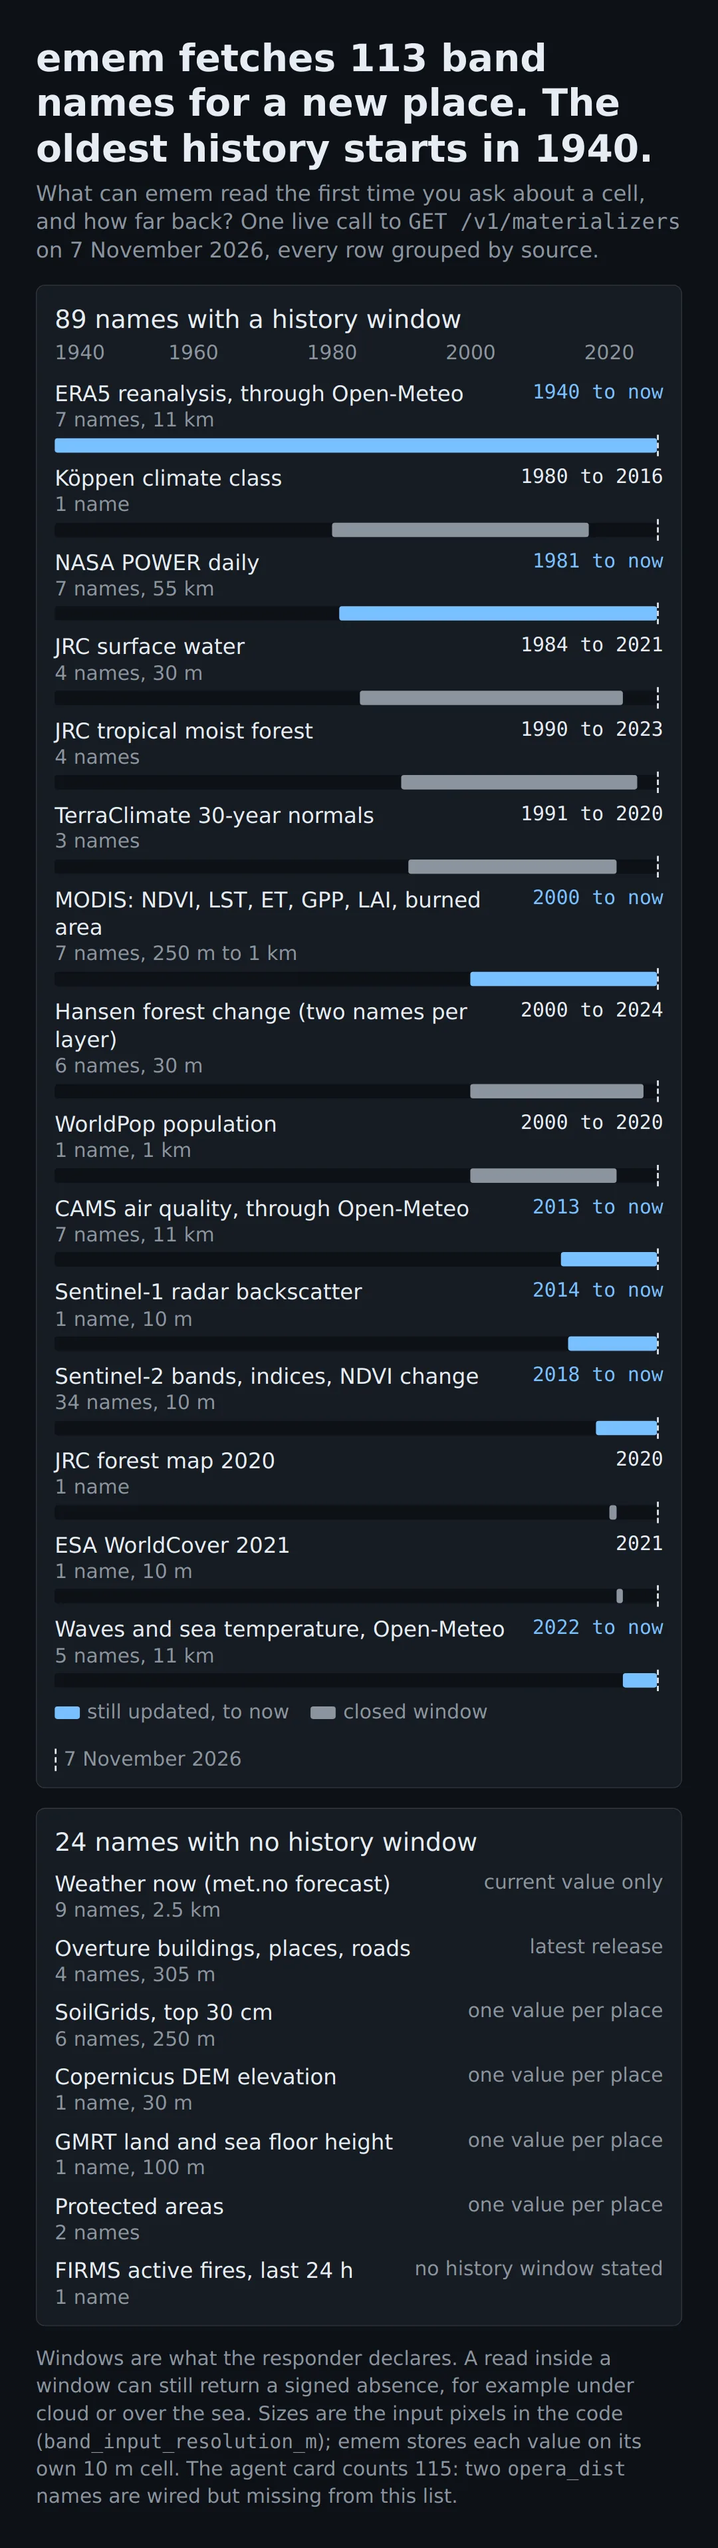
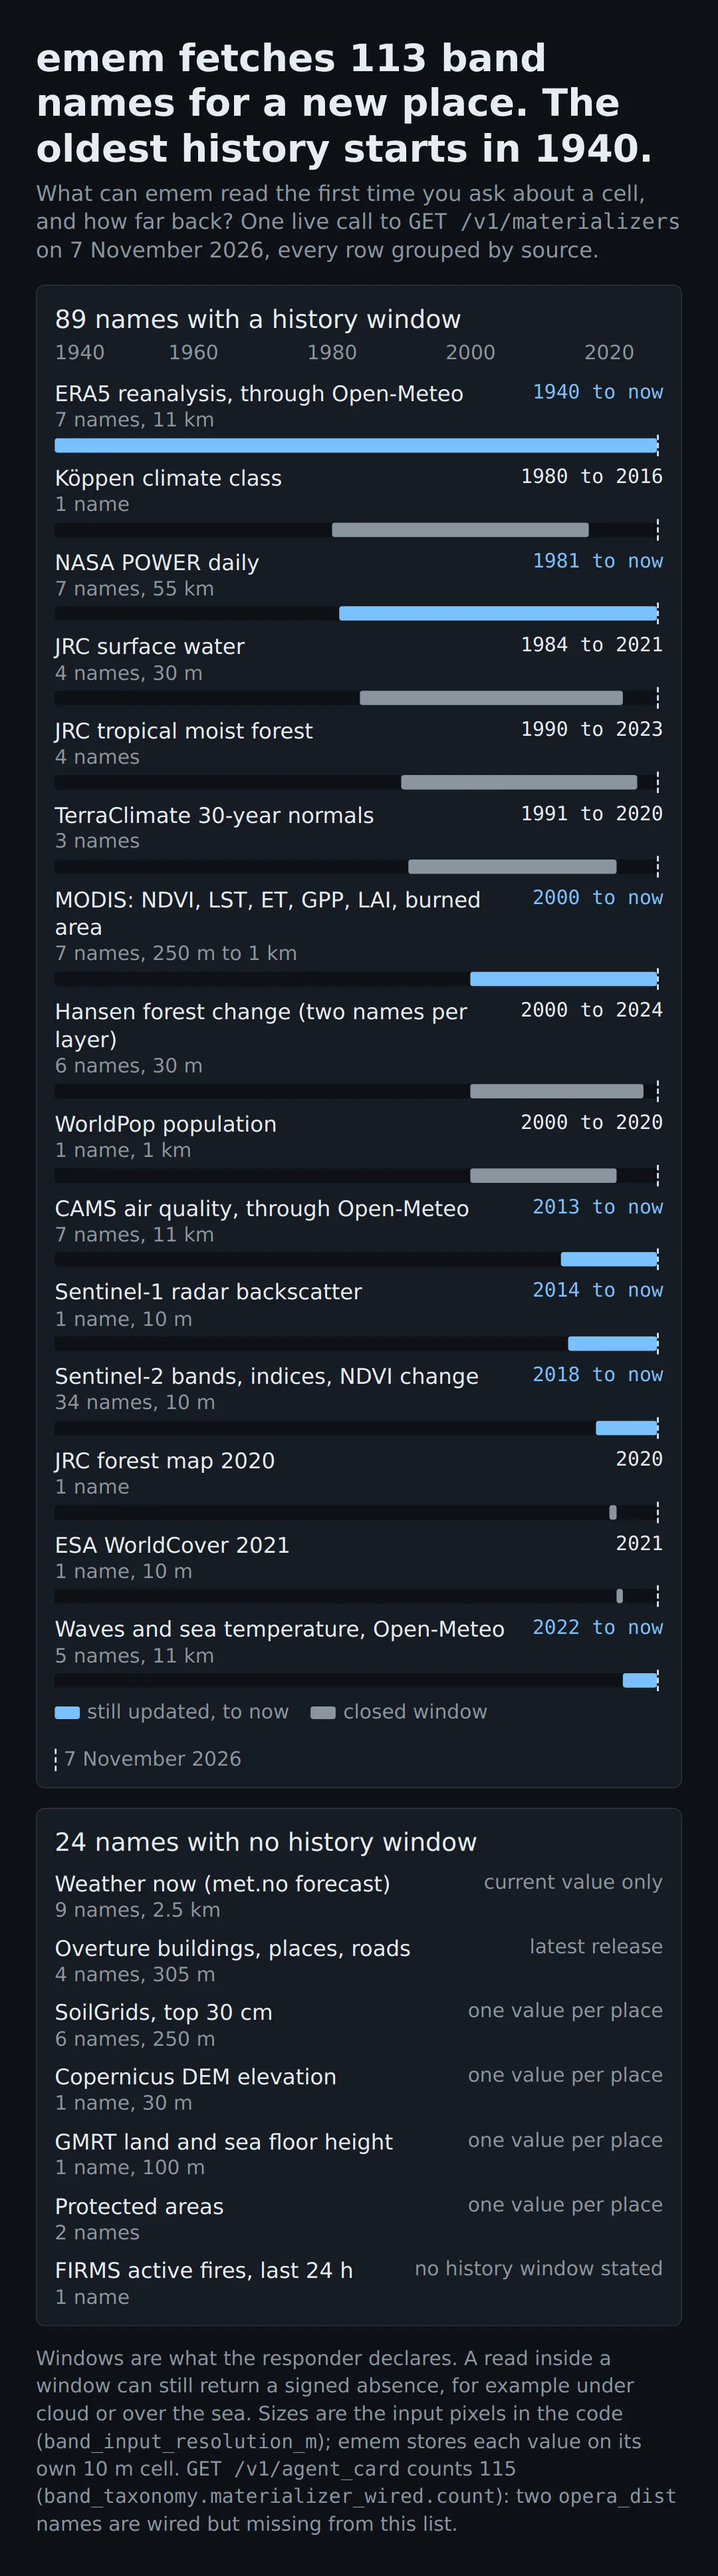
Name the agent card field behind the 115 wired bands
The wired-bands still, its alt text and intro.md said "the agent card"
counts 115. /.well-known/agent-card.json holds no count; the number is
band_taxonomy.materializer_wired.count in GET /v1/agent_card (115 live on
7 November 2026). The still now names the endpoint and the field.

check_media.py found 1981 only in an untracked response file. 1981 is the
year the still computes from the NASA POWER history_available_from_unix
value, so it is now listed as a computed value for wired-bands.

Changed region(s): [[0.0306, 0.0311, 0.9167, 0.9943], [0.7333, 0.6214, 0.7944, 0.6525]]

diff --git a/docs/media/stills/src/wired_bands.py b/docs/media/stills/src/wired_bands.py
@@ -170,8 +170,8 @@ h1{{font-size:42px;line-height:1.2;margin:0 0 10px}}
 
 <div class="foot">Windows are what the responder declares. A read inside a window can still return a signed absence,
 for example under cloud or over the sea. Sizes are the input pixels in the code
-(<span class="mono">band_input_resolution_m</span>); emem stores each value on its own 10 m cell. The agent card
-counts {AGENT_CARD_WIRED}: two <span class="mono">opera_dist</span> names are wired but missing from this list.</div>
+(<span class="mono">band_input_resolution_m</span>); emem stores each value on its own 10 m cell.
+<span class="mono">GET /v1/agent_card</span> counts {AGENT_CARD_WIRED} (<span class="mono">band_taxonomy.materializer_wired.count</span>): two <span class="mono">opera_dist</span> names are wired but missing from this list.</div>
 </div>"""
 
 out = Path(sys.argv[1]).resolve()

diff --git a/docs/media/stills/src/check_media.py b/docs/media/stills/src/check_media.py
@@ -71,6 +71,7 @@ COMPUTED = {
     "experiment-chain": {"10154"},  # experiment_chain.py: len(record.cbor)
     "one-place-many-names": {"13.3"},  # one_place.py: metres() from the first to the fifth locate point
     "what-crosses": {"13870"},  # what_crosses.py: sum of event_count over the 4 trace segments
+    "wired-bands": {"1981"},  # wired_bands.py: year() of NASA POWER history_available_from_unix
 }
 
 

diff --git a/docs/intro.md b/docs/intro.md
@@ -37,11 +37,11 @@ sources: `dynamic_world.v1`, `openet.30m.daily`, `tropomi.s5p.ch4`, `tropomi.s5p
 emem needs no corpus loaded in advance. When you ask about a new cell, emem reads the public archive, signs the
 value, stores it and returns it. So each cell on Earth can give a signed answer from the first request.
 
-<img src="media/stills/wired-bands.webp" alt="What emem can fetch for a new place, from one live call to GET /v1/materializers on 7 November 2026. It lists 113 band names. 89 have a history window. ERA5 reanalysis through Open-Meteo goes from 1940 to now, NASA POWER from 1981, MODIS from 2000, CAMS air quality from 2013, Sentinel-1 from 2014, Sentinel-2 bands and indices (34 names, 10 m) from 2018, and Open-Meteo marine from 2022. Closed windows include Köppen 1980 to 2016, JRC surface water 1984 to 2021, JRC tropical moist forest 1990 to 2023, TerraClimate normals 1991 to 2020, Hansen forest change 2000 to 2024, WorldPop 2000 to 2020, the JRC forest map 2020 and ESA WorldCover 2021. 24 names have no history window: the current met.no weather, the latest Overture release, SoilGrids, Copernicus DEM, GMRT, protected areas and FIRMS fires. A read inside a window can still return a signed absence. The agent card counts 115, because two opera_dist names are missing from this list." width="540">
+<img src="media/stills/wired-bands.webp" alt="What emem can fetch for a new place, from one live call to GET /v1/materializers on 7 November 2026. It lists 113 band names. 89 have a history window. ERA5 reanalysis through Open-Meteo goes from 1940 to now, NASA POWER from 1981, MODIS from 2000, CAMS air quality from 2013, Sentinel-1 from 2014, Sentinel-2 bands and indices (34 names, 10 m) from 2018, and Open-Meteo marine from 2022. Closed windows include Köppen 1980 to 2016, JRC surface water 1984 to 2021, JRC tropical moist forest 1990 to 2023, TerraClimate normals 1991 to 2020, Hansen forest change 2000 to 2024, WorldPop 2000 to 2020, the JRC forest map 2020 and ESA WorldCover 2021. 24 names have no history window: the current met.no weather, the latest Overture release, SoilGrids, Copernicus DEM, GMRT, protected areas and FIRMS fires. A read inside a window can still return a signed absence. GET /v1/agent_card counts 115 in band_taxonomy.materializer_wired.count, because two opera_dist names are missing from this list." width="540">
 
 The image groups all rows of the live list by source. A read inside a window can still return a signed absence, for
-example under cloud or over the sea. On 7 November 2026, `/v1/materializers` listed 113 names. The agent card
-counted 115, because the list leaves out the two `opera_dist` names.
+example under cloud or over the sea. On 7 November 2026, `/v1/materializers` listed 113 names. `GET /v1/agent_card` counted 115 in
+`band_taxonomy.materializer_wired.count`, because the list leaves out the two `opera_dist` names.
 
 ### Agent memory
 

diff --git a/docs/media/README.md b/docs/media/README.md
@@ -30,7 +30,7 @@ More: [start-here.md](../start-here.md).
 
 On a miss, recall fetches from an open source. Each band has its own history window.
 
-<img src="stills/wired-bands.webp" alt="What emem can fetch for a new place, from one live call to GET /v1/materializers on 7 November 2026. It lists 113 band names. 89 have a history window. ERA5 reanalysis through Open-Meteo goes from 1940 to now, NASA POWER from 1981, MODIS from 2000, CAMS air quality from 2013, Sentinel-1 from 2014, Sentinel-2 bands and indices (34 names, 10 m) from 2018, and Open-Meteo marine from 2022. Closed windows include Köppen 1980 to 2016, JRC surface water 1984 to 2021, JRC tropical moist forest 1990 to 2023, TerraClimate normals 1991 to 2020, Hansen forest change 2000 to 2024, WorldPop 2000 to 2020, the JRC forest map 2020 and ESA WorldCover 2021. 24 names have no history window: the current met.no weather, the latest Overture release, SoilGrids, Copernicus DEM, GMRT, protected areas and FIRMS fires. A read inside a window can still return a signed absence. The agent card counts 115, because two opera_dist names are missing from this list." width="540">
+<img src="stills/wired-bands.webp" alt="What emem can fetch for a new place, from one live call to GET /v1/materializers on 7 November 2026. It lists 113 band names. 89 have a history window. ERA5 reanalysis through Open-Meteo goes from 1940 to now, NASA POWER from 1981, MODIS from 2000, CAMS air quality from 2013, Sentinel-1 from 2014, Sentinel-2 bands and indices (34 names, 10 m) from 2018, and Open-Meteo marine from 2022. Closed windows include Köppen 1980 to 2016, JRC surface water 1984 to 2021, JRC tropical moist forest 1990 to 2023, TerraClimate normals 1991 to 2020, Hansen forest change 2000 to 2024, WorldPop 2000 to 2020, the JRC forest map 2020 and ESA WorldCover 2021. 24 names have no history window: the current met.no weather, the latest Overture release, SoilGrids, Copernicus DEM, GMRT, protected areas and FIRMS fires. A read inside a window can still return a signed absence. GET /v1/agent_card counts 115 in band_taxonomy.materializer_wired.count, because two opera_dist names are missing from this list." width="540">
 
 More: [intro.md](../intro.md), section "Earth memory".
 
